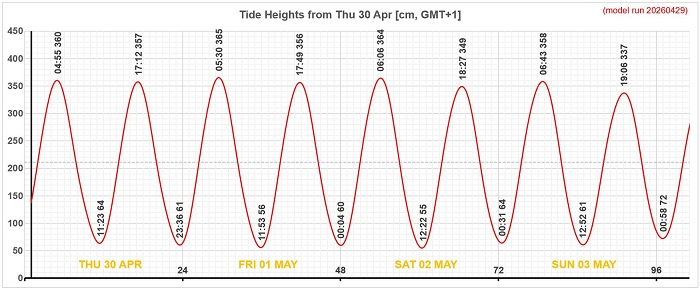
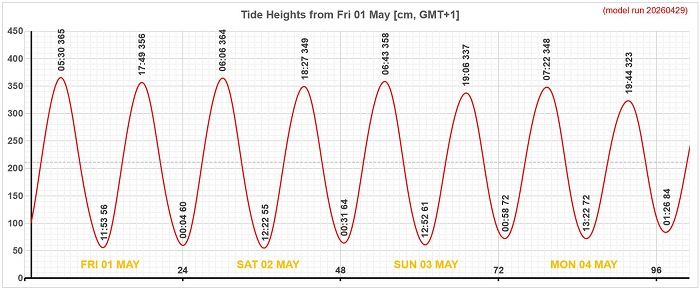
Add files via upload

diff --git a/index.html b/index.html
@@ -161,10 +161,6 @@ dark skies, stellar magnitude, moon, Luna, Mercury, Venus, Mars, Jupiter, Saturn
 							<td id="recent_posts_list" valign="top">
 									<li><b>Predicted Tides at Baltimore Pier<br />(GMT+1) (</b><a href="tides.html">explainer, daily & full-year charts & data</a>)<br /><hr /></li>
 
-Thu 30 Apr 2026  High: 04:55  3.60m<br />
-Thu 30 Apr 2026  Low: 11:23  0.64m<br />
-Thu 30 Apr 2026  High: 17:12  3.57m<br />
-Thu 30 Apr 2026  Low: 23:36  0.61m<br />
 Fri 1 May 2026  High: 05:30  3.65m<br />
 Fri 1 May 2026  Low: 11:53  0.56m<br />
 Fri 1 May 2026  High: 17:49  3.56m **<br />
@@ -180,6 +176,10 @@ Sun 3 May 2026  Low: 00:58  0.72m<br />
 Mon 4 May 2026  High: 07:22  3.48m<br />
 Mon 4 May 2026  Low: 13:22  0.72m<br />
 Mon 4 May 2026  High: 19:44  3.23m<br />
+Tue 5 May 2026  Low: 01:26  0.84m<br />
+Tue 5 May 2026  High: 07:59  3.34m<br />
+Tue 5 May 2026  Low: 13:52  0.88m<br />
+Tue 5 May 2026  High: 20:20  3.08m<br />
 
 (** = Full Moon  * = New Moon)
 									<br /><br />